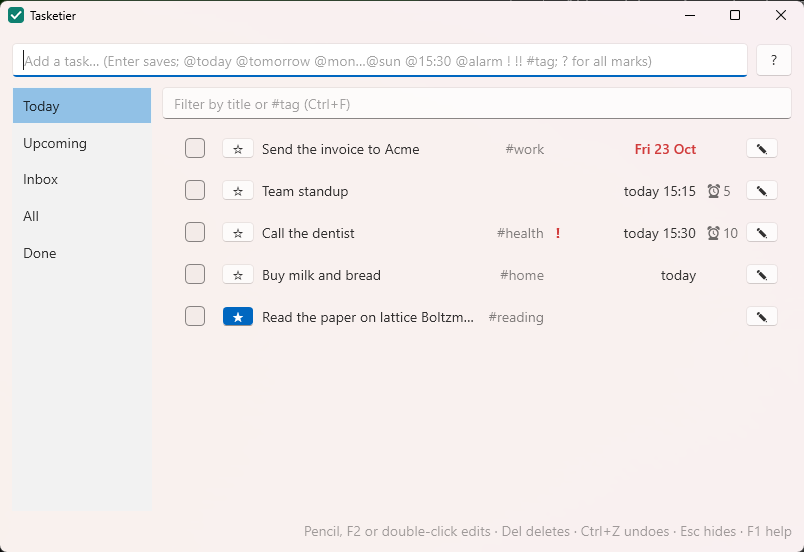
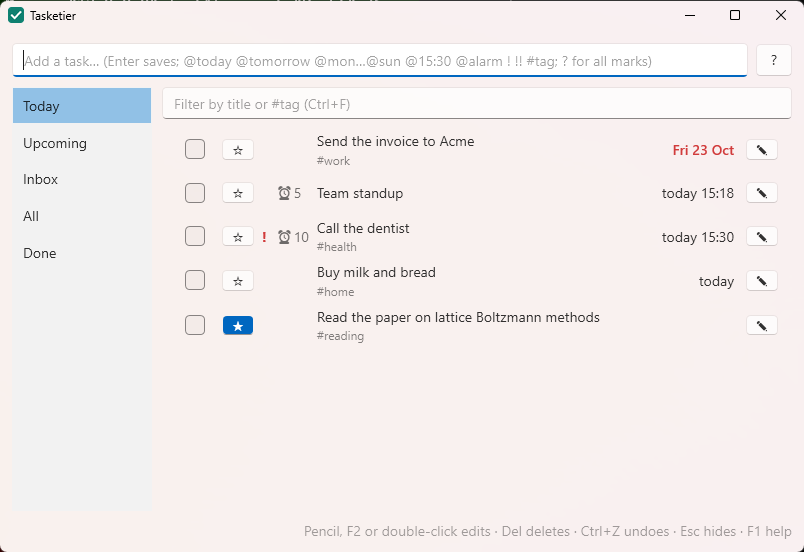
Two-line rows: marks in front of the title, tags under it, due on the right, pencil last
Priority, alarm and due use shared-size columns, so every row aligns. Version 0.2.3.

diff --git a/src/Tasketier.App/ListWindow.xaml b/src/Tasketier.App/ListWindow.xaml
@@ -42,11 +42,10 @@
                     <Grid.ColumnDefinitions>
                         <ColumnDefinition Width="Auto" />
                         <ColumnDefinition Width="Auto" />
+                        <ColumnDefinition Width="Auto" SharedSizeGroup="Priority" />
+                        <ColumnDefinition Width="Auto" SharedSizeGroup="Alarm" />
                         <ColumnDefinition Width="*" />
-                        <ColumnDefinition Width="Auto" />
-                        <ColumnDefinition Width="Auto" />
-                        <ColumnDefinition Width="Auto" />
-                        <ColumnDefinition Width="Auto" />
+                        <ColumnDefinition Width="Auto" SharedSizeGroup="Due" />
                         <ColumnDefinition Width="Auto" />
                     </Grid.ColumnDefinitions>
                     <CheckBox Grid.Column="0" IsChecked="{Binding IsDone, Mode=OneWay}" Click="OnDoneClick" VerticalAlignment="Center" Margin="4,0,8,0" ToolTip="Done" />
@@ -62,12 +61,14 @@
                             </Style>
                         </ToggleButton.Style>
                     </ToggleButton>
-                    <TextBlock Grid.Column="2" Text="{Binding Title}" Style="{StaticResource DoneTitle}" FontSize="14" TextTrimming="CharacterEllipsis" VerticalAlignment="Center" MouseLeftButtonDown="OnTitleMouseDown" />
-                    <TextBlock Grid.Column="3" Text="{Binding TagsText}" Opacity="0.6" VerticalAlignment="Center" Margin="12,0,0,0" />
-                    <TextBlock Grid.Column="4" Text="{Binding PriorityText}" Foreground="#D13B3B" FontWeight="Bold" VerticalAlignment="Center" Margin="12,0,0,0" MinWidth="18" />
-                    <TextBlock Grid.Column="5" Text="{Binding DueText}" Style="{StaticResource OverdueText}" VerticalAlignment="Center" Margin="12,0,4,0" MinWidth="110" TextAlignment="Right" />
-                    <TextBlock Grid.Column="6" Text="{Binding AlarmText}" Opacity="0.7" VerticalAlignment="Center" Margin="4,0,4,0" MinWidth="34" ToolTip="Alarm, minutes before the due time" />
-                    <Button Grid.Column="7" Content="✎" Click="OnEditClick" Width="32" Padding="0" Margin="4,0,0,0" FontSize="14" ToolTip="Edit the line (F2)" />
+                    <TextBlock Grid.Column="2" Text="{Binding PriorityText}" Foreground="#D13B3B" FontWeight="Bold" VerticalAlignment="Center" Margin="0,0,8,0" ToolTip="Priority: ! high, !! urgent" />
+                    <TextBlock Grid.Column="3" Text="{Binding AlarmText}" Opacity="0.7" VerticalAlignment="Center" Margin="0,0,8,0" ToolTip="Alarm, minutes before the due time" />
+                    <StackPanel Grid.Column="4" VerticalAlignment="Center" MouseLeftButtonDown="OnTitleMouseDown">
+                        <TextBlock Text="{Binding Title}" Style="{StaticResource DoneTitle}" FontSize="14" TextTrimming="CharacterEllipsis" />
+                        <TextBlock Text="{Binding TagsText}" Visibility="{Binding HasTags, Converter={StaticResource VisibleWhenTrue}}" FontSize="12" Opacity="0.6" TextTrimming="CharacterEllipsis" Margin="0,2,0,0" />
+                    </StackPanel>
+                    <TextBlock Grid.Column="5" Text="{Binding DueText}" Style="{StaticResource OverdueText}" VerticalAlignment="Center" Margin="12,0,0,0" TextAlignment="Right" />
+                    <Button Grid.Column="6" Content="✎" Click="OnEditClick" Width="32" Padding="0" Margin="12,0,0,0" FontSize="14" ToolTip="Edit the line (F2)" />
                 </Grid>
                 <!-- The edit field: the whole line in inline syntax, across the full row. -->
                 <TextBox Text="{Binding EditText, UpdateSourceTrigger=PropertyChanged}"
@@ -111,7 +112,7 @@
                     <TextBox x:Name="FilterBox" Padding="8,5" TextChanged="OnFilterChanged" PreviewKeyDown="OnFilterKeyDown" />
                     <TextBlock x:Name="FilterHint" Text="Filter by title or #tag (Ctrl+F)" Margin="12,0,0,0" VerticalAlignment="Center" Opacity="0.45" IsHitTestVisible="False" />
                 </Grid>
-                <ListView x:Name="Tasks" Grid.Row="1" ItemTemplate="{StaticResource TaskRowTemplate}" HorizontalContentAlignment="Stretch" PreviewKeyDown="OnTasksKeyDown" SelectionMode="Single" ScrollViewer.HorizontalScrollBarVisibility="Disabled">
+                <ListView x:Name="Tasks" Grid.Row="1" ItemTemplate="{StaticResource TaskRowTemplate}" HorizontalContentAlignment="Stretch" PreviewKeyDown="OnTasksKeyDown" SelectionMode="Single" ScrollViewer.HorizontalScrollBarVisibility="Disabled" Grid.IsSharedSizeScope="True">
                     <ListView.ItemContainerStyle>
                         <Style TargetType="ListViewItem" BasedOn="{StaticResource {x:Type ListViewItem}}">
                             <Setter Property="HorizontalContentAlignment" Value="Stretch" />

diff --git a/src/Tasketier.App/TaskRow.cs b/src/Tasketier.App/TaskRow.cs
@@ -67,6 +67,9 @@ public sealed class TaskRow : INotifyPropertyChanged
     /// <summary>The alarm as <c>⏰5</c>, or empty.</summary>
     public string AlarmText => Task.AlarmMinutes is int minutes ? "⏰" + minutes.ToString(CultureInfo.InvariantCulture) : string.Empty;
 
+    /// <summary>Whether the task has tags, for the second line of the row.</summary>
+    public bool HasTags => Task.Tags.Count > 0;
+
     /// <summary>The tags as <c>#home #shop</c>.</summary>
     public string TagsText => string.Join(' ', Task.Tags.Select(t => "#" + t));
 

diff --git a/tests/Tasketier.Cli.Tests/CommandRunnerTests.cs b/tests/Tasketier.Cli.Tests/CommandRunnerTests.cs
@@ -136,7 +136,7 @@ public sealed class CommandRunnerTests : IDisposable
         Assert.Equal(ExitCode.Ok, await _runner.RunAsync(["help"]));
         Assert.Contains("Inline syntax", _out.ToString(), StringComparison.Ordinal);
         Assert.Equal(ExitCode.Ok, await _runner.RunAsync(["version"]));
-        Assert.Contains("0.2.2", _out.ToString(), StringComparison.Ordinal);
+        Assert.Contains("0.2.3", _out.ToString(), StringComparison.Ordinal);
     }
 
     [Fact]

diff --git a/README.md b/README.md
@@ -31,9 +31,9 @@ parser read from it, before you press Enter:
 ![The capture box with the inline syntax help unfolded](docs/img/capture-help.png)
 
 The list window, Today view. Overdue tasks come first, in red. Then the tasks due today. Then the
-task planned for today, with the star:
+task planned for today, with the star. The marks stand in front of the title, the tags under it:
 
-![The list window with the Today view: four tasks, one overdue, one with a time, a priority mark and an alarm, one starred, a pencil at the end of each row](docs/img/list.png)
+![The list window with the Today view: the priority mark and the alarm bell in front of each title, the tags under it, the due day on the right and a pencil at the end of each row](docs/img/list.png)
 
 An alarm card. It beeps until you answer it. Done completes the task, the three middle buttons
 snooze, Disarm acknowledges, and `Esc` snoozes one minute:
